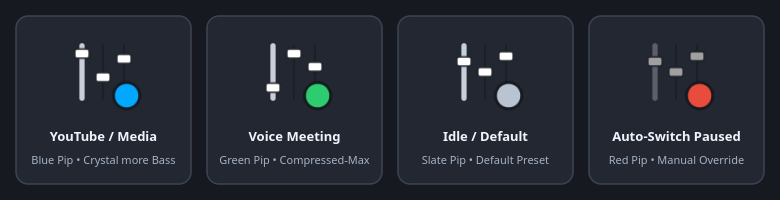
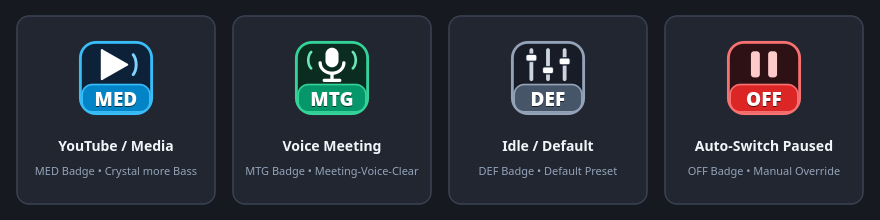
docs: update v0.5.0 UI and tray badge screenshots

diff --git a/python/easyeffects_auto_preset.py b/python/easyeffects_auto_preset.py
@@ -2313,7 +2313,7 @@ class MainWindow(QMainWindow):
         self.btn_install_presets_tab3.setStyleSheet("font-weight: bold; padding: 6px 14px;")
         self.btn_install_presets_tab3.clicked.connect(lambda: self.open_bundled_presets_dialog(first_launch=False))
 
-        self.btn_check_deps = QPushButton("🩺 System & Dependency Check...", tools_frame)
+        self.btn_check_deps = QPushButton("🩺 System && Dependency Check...", tools_frame)
         self.btn_check_deps.setStyleSheet("font-weight: bold; padding: 6px 14px;")
         self.btn_check_deps.clicked.connect(self.open_dependency_dialog)
 

diff --git a/README.md b/README.md
@@ -86,11 +86,11 @@ If you find EasyEffects Auto Preset helpful for your audio workflow and meetings
 - 🦀 **Dual Architecture (Rust + Python/Qt6):**
   - **Native Rust CLI & Daemon (`easyeffects-auto-preset`):** Memory-safe, zero-overhead background engine consuming **<4MB RSS** and ~0% CPU.
   - **PyQt6 Settings & System Tray Manager (`python/easyeffects_auto_preset.py`):** Full graphical settings dialog, live PipeWire stream inspector table, one-click preset testing, and tray quick-override menu.
-- 🎨 **Dynamic System Tray Status Icon:**
-  - 🔵 **Blue pip:** YouTube, music, movie, or video playback active
-  - 🟢 **Green pip:** Voice meeting / call active
-  - ⚪ **Slate pip:** System idle / default preset
-  - 🔴 **Red pip:** Auto-switching paused
+- 🎨 **Dynamic System Tray Status Badges:**
+  - 🔵 **`MED` (Blue Badge):** YouTube, music, movie, or video playback active
+  - 🟢 **`MTG` (Green Badge):** Voice meeting / call active
+  - ⚪ **`DEF` (Slate Badge):** System idle / default preset
+  - 🔴 **`OFF` (Red Badge):** Auto-switching paused
 - 🔔 **Built-in Update Checker:** Automatic startup update checks and manual one-click update checks via the GUI, system tray menu (`Check for Updates...`), and CLI (`--check-update` / `-u`) against GitHub Releases.
 - 📦 **Packaged Meeting-Voice & Media Presets:** Bundles all 8 custom EasyEffects presets directly inside the application. Offers to install them on first launch, and allows installing or restoring them anytime later from the GUI (**`📦 Install / Restore Bundled Presets...`**), the System Tray menu, or the CLI (`--install-presets`).
 - 🩺 **System & Dependency Checker:** Automatically detects if **EasyEffects** (native or Flatpak), **`pactl`** (PipeWire/PulseAudio CLI), **PipeWire**, or required **LV2/RNNoise DSP plugins** are missing, shows distro-specific fix commands (`pacman`, `apt`, `dnf`, `zypper`, `flatpak`), and offers one-click package installation.
